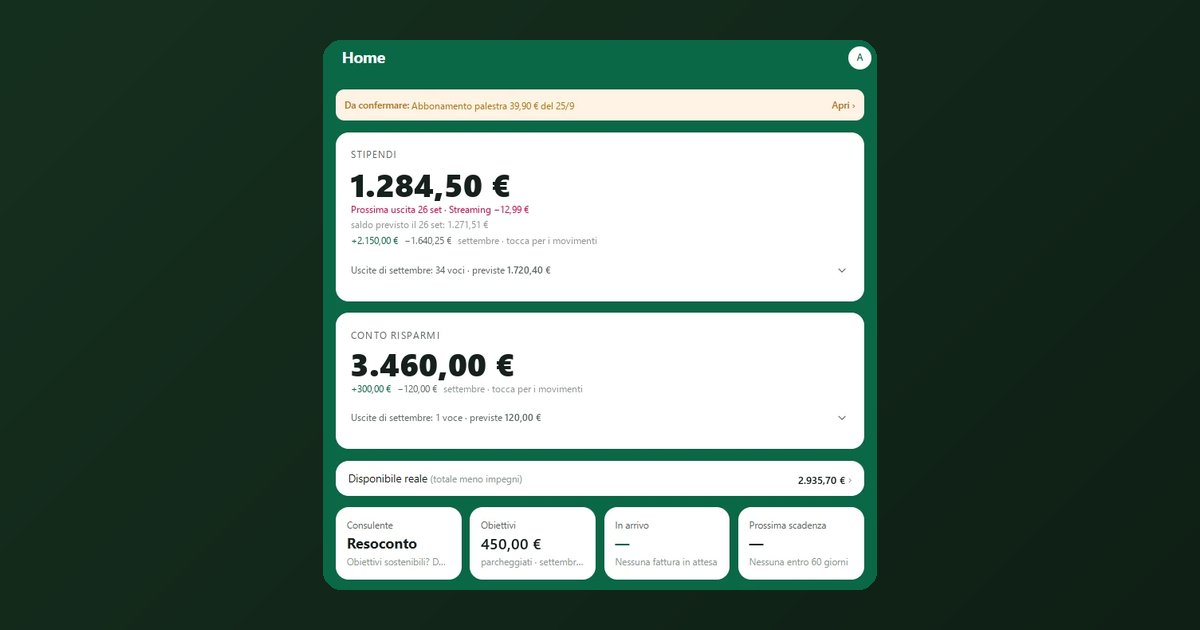
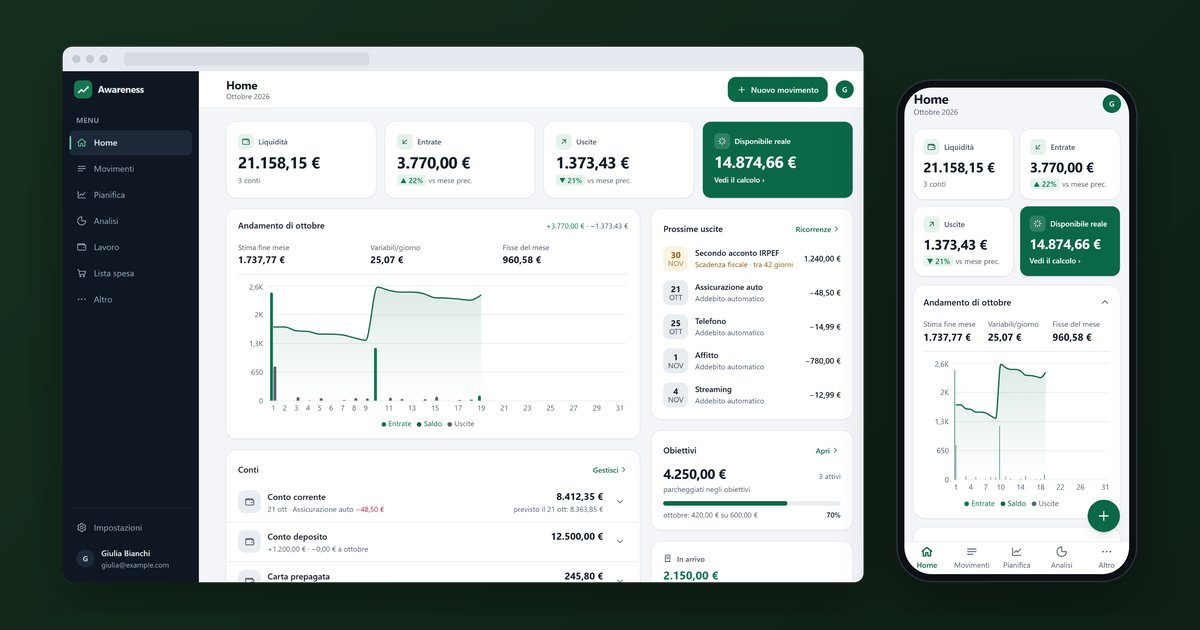
Layout più ampio su desktop, versione dei file CSS e JS, nuova immagine di Awareness
- Da 1100 px: contenitore a 1240 px con margini proporzionati, fasce alternate a tutta
  larghezza, paragrafi al massimo di circa 70 caratteri; da 1300 px collage della home più grande.
  Telefono e tablet invariati.
- Script di pubblicazione: in dist i link a CSS e JS prendono ?v=<hash del file> e c'è un
  controllo che nessuna pagina li richiami senza versione; cache di /css e /js a un anno (immutable).
- Awareness: vetrina computer + smartphone con dati di esempio (awareness-vetrina.webp,
  copia da 800 px per la scheda, anteprima social rifatta).

diff --git a/css/stile.css b/css/stile.css
@@ -396,3 +396,28 @@ html:not(.js) .form { display: none; }
 
 /* Pagine progetto: collegamento al settore */
 .rel-settore { margin: 0 0 22px; }
+
+/* Schermi larghi (da 1100 px): contenitore a 1240 px, fasce alternate a tutta larghezza, collage piu grande.
+   Sotto i 1100 px (tablet e telefono) non cambia nulla. */
+@media (min-width: 1100px) {
+  :root { --gutter: clamp(20px, 6vw - 46px, 72px); --band: #10151b; }
+  .wrap { max-width: calc(1240px + 2 * var(--gutter)); padding-left: var(--gutter); padding-right: var(--gutter); }
+
+  /* Fasce: una sezione si e una no, escluse quelle che continuano l'intestazione (con stile proprio),
+     la navigazione tra progetti e l'invito finale, che ha gia il suo riquadro */
+  main > section:nth-of-type(even):not([style]):not(:has(.contact, .pager)) {
+    margin-top: 64px; padding: 64px 0;
+    background: var(--band); border-top: 1px solid var(--line); border-bottom: 1px solid var(--line);
+    --panel: var(--panel-2); /* le schede dentro la fascia restano piu chiare dello sfondo */
+  }
+  main > section:nth-of-type(even):not([style]):not(:has(.contact, .pager)) + section { padding-top: 64px; }
+
+
+  /* Paragrafi lunghi leggibili: al massimo circa 70 caratteri per riga */
+  main p { max-width: 70ch; }
+}
+/* Apertura della home: piu spazio al collage dei progetti (da 1300 px, cosi il titolo resta su tre righe) */
+@media (min-width: 1300px) { .hero { grid-template-columns: minmax(0, 1fr) minmax(0, 1.15fr); gap: 56px; } }
+
+/* Immagini che hanno gia cornici e ombre proprie, su sfondo trasparente (per esempio la vetrina di Awareness) */
+.media.solo img.mockup { box-shadow: none; border-radius: 0; }

diff --git a/progetti/awareness/index.html b/progetti/awareness/index.html
@@ -87,7 +87,7 @@
       <span class="kicker">Web app · Finanza personale e familiare</span>
       <div class="tags" aria-label="Tecnologie"><span class="tag">React</span><span class="tag">Vite</span><span class="tag">Node.js</span><span class="tag">Express</span><span class="tag">PostgreSQL</span><span class="tag">Prisma</span><span class="tag">WebSocket</span></div>
       <div class="media proj-media solo m-green">
-        <img src="/img/awareness.webp" width="695" height="690" alt="Home di Awareness con il Disponibile reale, dati di esempio" />
+        <img class="mockup" src="/img/awareness-vetrina.webp" width="1600" height="843" alt="Awareness su computer e smartphone: la Home con il Disponibile reale, dati di esempio" />
       </div>
       <p class="private proj-note"><svg viewBox="0 0 24 24" fill="none" stroke="currentColor" stroke-width="2" stroke-linecap="round" stroke-linejoin="round" aria-hidden="true"><rect x="4" y="11" width="16" height="10" rx="2"/><path d="M8 11V7a4 4 0 0 1 8 0v4"/></svg> Nello screenshot importi e voci di esempio.</p>
     </div>

diff --git a/progetti/index.html b/progetti/index.html
@@ -147,7 +147,7 @@
         </li>
         <li class="card" data-cat="gestionali">
           <div class="media solo m-green">
-            <img src="/img/awareness.webp" width="695" height="690" alt="Home di Awareness con il Disponibile reale, dati di esempio" loading="lazy" />
+            <img class="mockup" src="/img/schede/awareness-vetrina.webp" width="800" height="422" alt="Awareness su computer e smartphone: la Home con il Disponibile reale, dati di esempio" loading="lazy" />
           </div>
           <div class="card-body">
             <span class="kicker">Gestionali e web app</span>
